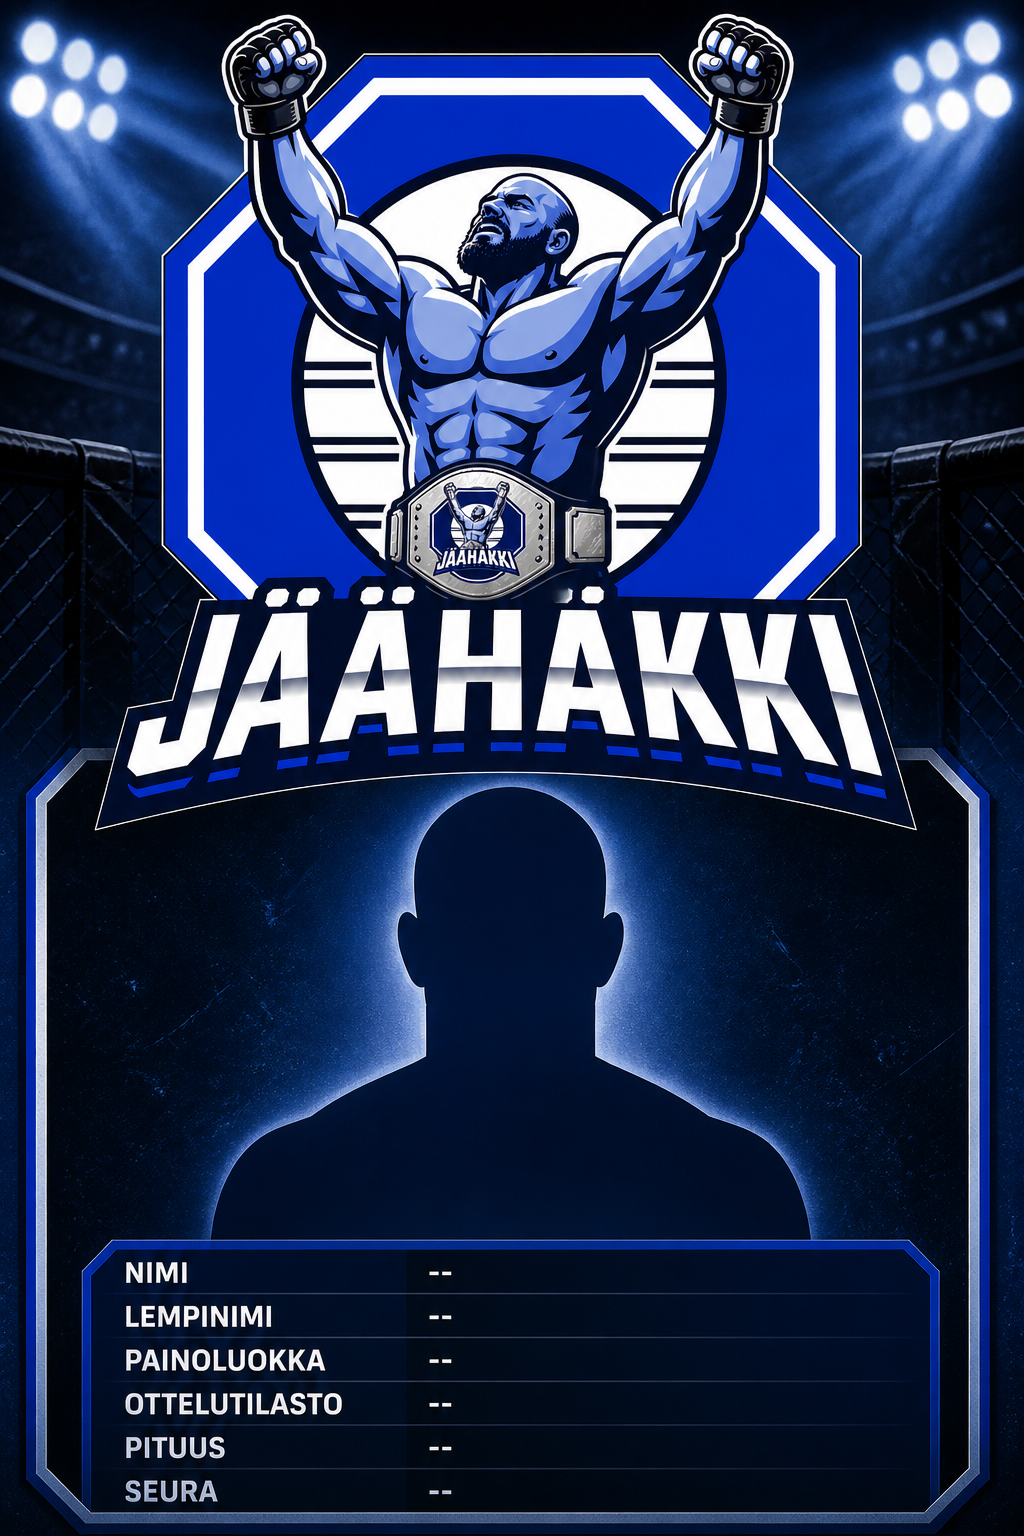
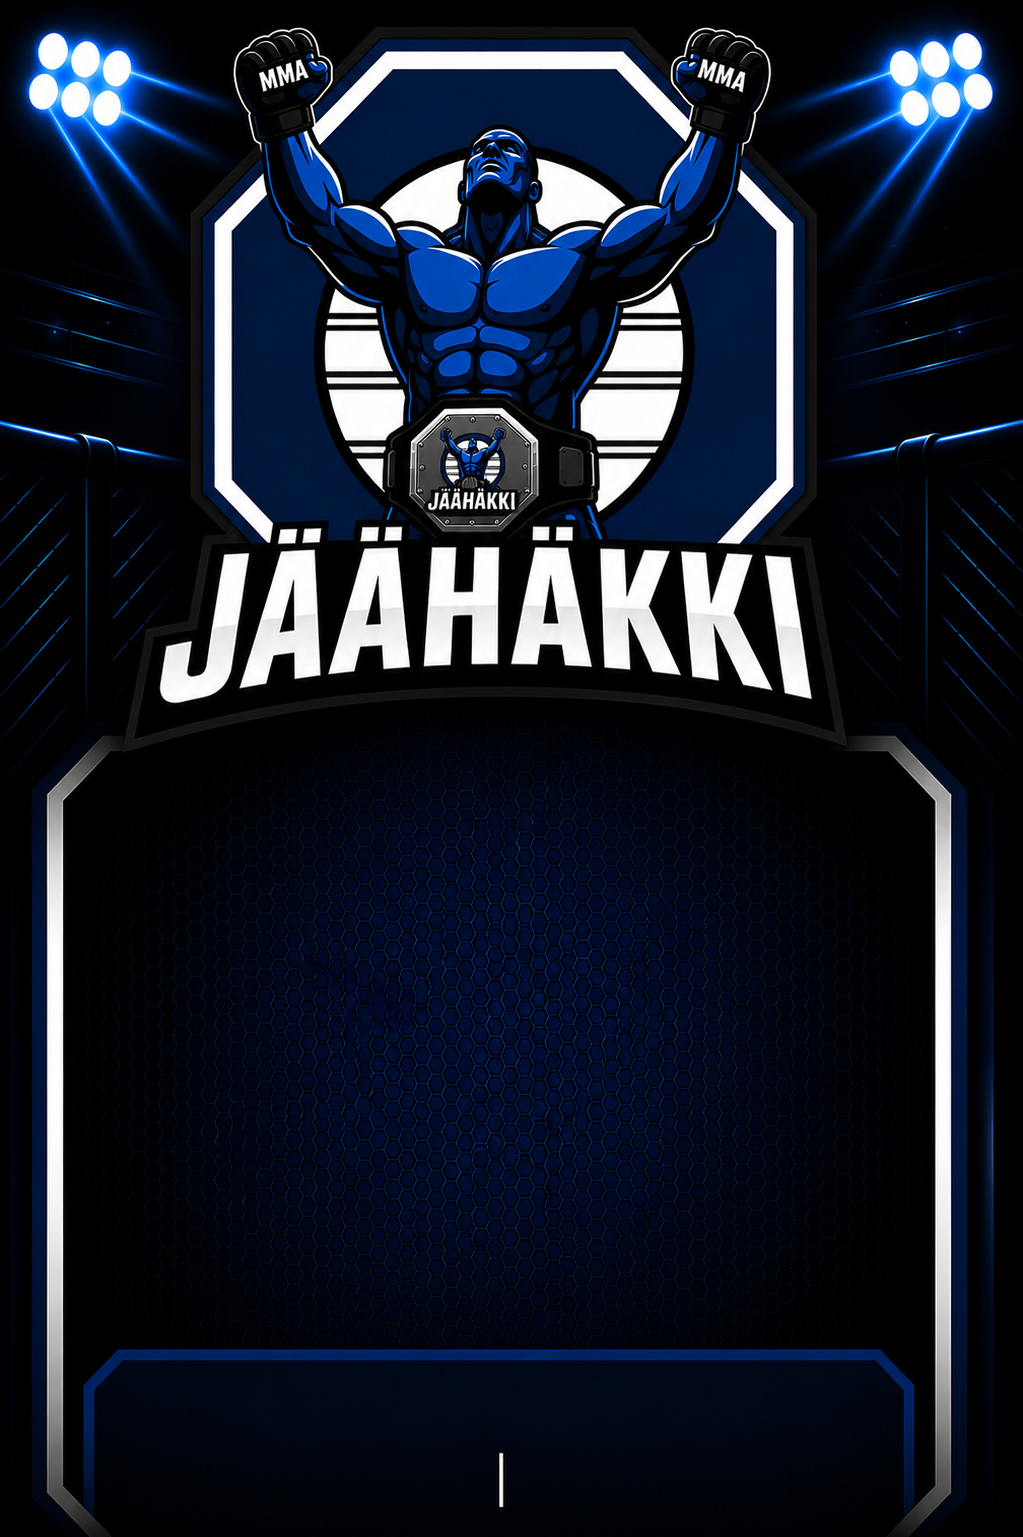
Update7

diff --git a/index.html b/index.html
@@ -19,7 +19,7 @@
       rel="stylesheet"
     />
     <title>Jäähäkkiveikkaus</title>
-    <script type="module" crossorigin src="./assets/index-esKLsVHK.js"></script>
+    <script type="module" crossorigin src="./assets/index-Bhjt_Ndd.js"></script>
   </head>
   <body>
     <div id="root"></div>